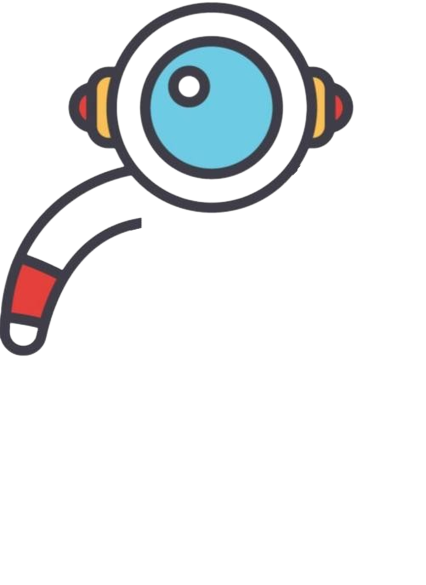
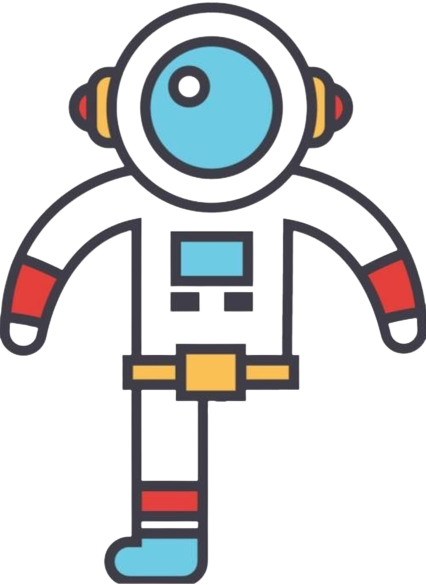
final

Changed region(s): [[0.2441, 0.2769, 1.0, 1.0], [0.3967, 0.3692, 0.6103, 0.5538]]

diff --git a/js/script.js b/js/script.js
@@ -6,6 +6,7 @@ const wordBank = ['PLANET','ASTEROID', 'UFO', 'COMET', 'DROID', 'GALAXY'];
 
 /*----- app's state (variables) -----*/
 let userChoice; //Letter chosen/clicked 
+let wrongChoice;
 let tries;//How many tries left
 let word;//Represents the word chosen/displayed
 let letter;//Each letter of word 
@@ -17,7 +18,6 @@ let result;// If you guessed the word before tries runs out(6)
 
 /*----- cached element references -----*/
 const wordEl = document.getElementById('word');//Where the word appears
-// const airEl = document.getElementById('air'); Air tank decreasing
 const wrongLetterEl = document.getElementById('wrongLetter');//Show the wrong choice
 const guessButtonEl = document.getElementById('keyboard');//clickable keyboard
 const playAgainEl = document.getElementById('playAgain');//Reset the game
@@ -28,7 +28,8 @@ const spacemanEl = document.querySelector('img');
 /*----- event listeners -----*/
 //EventListener for the buttons -->
 // document.querySelector('#playAgain').addEventListener('click', init);
-document.getElementById('keyboard').addEventListener('click', handleChoice)
+document.getElementById('keyboard').addEventListener('click', handleChoice);
+playAgainEl.addEventListener('click', refreshBoard);
 // if the onclick button value === any value of the index of the word chosen 
 //then append that letter to the correlated [idx] of the chosen work into wordEl (renderWord)
 //if it does not match then tries--
@@ -37,13 +38,18 @@ document.getElementById('keyboard').addEventListener('click', handleChoice)
 
 function handleChoice(evt) {  //the function for event listener
     if (evt.target.tagName !== 'BUTTON' || //guards
-        userChoice.includes(evt.target.value.toUpperCase())
+        userChoice.includes(evt.target.value.toUpperCase()) ||
+        wrongChoice.includes(evt.target.value.toUpperCase())
     ) return;
-    userChoice.push(evt.target.value.toUpperCase())
-    if (word.includes(evt.target.value.toUpperCase())) {
+   if (word.includes(evt.target.value.toUpperCase())) {
+        userChoice.push(evt.target.value.toUpperCase())
+        result = checkResult();
         render();
+        
     } else {
+        wrongChoice.push(evt.target.value.toUpperCase())
         tries -= 1;
+        result = checkResult();
         render()
     }
 }
@@ -53,17 +59,20 @@ function handleChoice(evt) {  //the function for event listener
 /*----- functions -----*/
 init();
 function init() {
+playAgainEl.style.visibility = 'hidden';
 tries = 6;
 word = pickWord();
 userChoice = [];
+wrongChoice = [];
+result = null;
 word.forEach(function() {
     let letterEl = document.createElement('div');
     wordEl.appendChild(letterEl);
 })
 render()
 }
-console.log(word)
-console.log(wordEl)
+// console.log(word)
+// console.log(wordEl)
 function render() {
     renderWord();
     renderIMG();
@@ -89,23 +98,35 @@ function renderWord() {
         }
     })
 }
+function checkResult() {
+    if (userChoice.length === word.length) return 'W';
+    if (tries === 0) return 'L';
+    return null
+}
 
 function renderResult() {
-   if (tries === 0) {
-    document.querySelector('#result').innerHTML = 'You Lose';
-    guessButtonEl.style.visibility = 'hidden';
-   }}
+    if (result === 'W') {
+        document.querySelector('#result').innerHTML = 'You Saved him';
+        playAgainEl.style.visibility = 'visible';
+        guessButtonEl.style.visibility = 'hidden';
+        spacemanEl.style.visibility = 'hidden';
+    } else if (result === 'L') {
+        document.querySelector('#result').innerHTML = 'You Lose';
+        playAgainEl.style.visibility = 'visible';
+        guessButtonEl.style.visibility = 'hidden';
+        spacemanEl.style.visibility = 'hidden';
+       } else {
+            document.querySelector('#result').innerHTML = `You have ${tries} liters of air left`
+        }
+   }
+
+   function refreshBoard () {
+    window.location.reload()
+   }
 
 function renderIMG() {
     // const imgPath = `pseudocode/IMG/spaceman-${userChoice.length}.png`;
     // console.log(imgPath);
-    spacemanEl.src = `pseudocode/IMG/spaceman-${userChoice.length}.png`;
+    spacemanEl.src = `pseudocode/IMG/spaceman-${wrongChoice.length}.png`;
 }
 
-
-
-
-// for (let i = 0; i < userChoice.length; i++)
-// letter = userChoice[i];
-// if (userChoice[i].length > tries) {
-// document.querySelector('#result').innerHTML = 'He is dead, try again';

diff --git a/index.html b/index.html
@@ -16,17 +16,15 @@
     <link href="https://fonts.googleapis.com/css2?family=Gemunu+Libre:wght@200&family=Open+Sans:wght@300&display=swap" rel="stylesheet">
 </head>
 <body>
-    
-    
     <div class="title">
         <u>SpaceMan</u>
-        <h2>Help him get home</h2>
+        <h2>He Has 6 Liters of Air Left</h2>
     </div>
     <div>
         <div id="word"></div>
-        <!-- <div id="wrongLetter">G J I P L J</div> -->
         <img src = "pseudocode/IMG/spaceman-0.png">
         <div id="result"></div>
+        <button id ="playAgain">Play Again</button>
     </div>
     <div id="keyboard">
         <div>
@@ -64,8 +62,6 @@
             <button class="keys" value = "n">N</button>
             <button class="keys" value = "m">M</button>
         </div>
-    </div>
-        <button id ="playAgain">Play Again</button>
-        
+    </div>        
 </body>
 </html>

diff --git a/css/style.css b/css/style.css
@@ -4,7 +4,7 @@ body {
     background-image: url(https://newevolutiondesigns.com/images/freebies/4k-space-wallpaper-1.jpg) ;
     background-size: cover;
     font-family: 'Gemunu Libre', sans-serif;
-    height: 100vh;
+    height: 100%;
     display: flex;
     flex-direction: column;     
     text-align: center;
@@ -43,10 +43,8 @@ h2 {
     font-size: 100px;
     color: white;
 }
-.spaceman {
-    height: 10px;
-    display: flex;
-    align-items: baseline;
+img {
+    width: 30%;
 }
 #word > div {
     border-bottom: 3px solid lightcoral;
@@ -79,10 +77,6 @@ h2 {
 
 
 
-/* 26 keys to be clicked and listened for */
-/* Q W E R T Y U I O P */
-/* A S D F G H J K L */
-/* Z X C V B N M */
 
 
 
